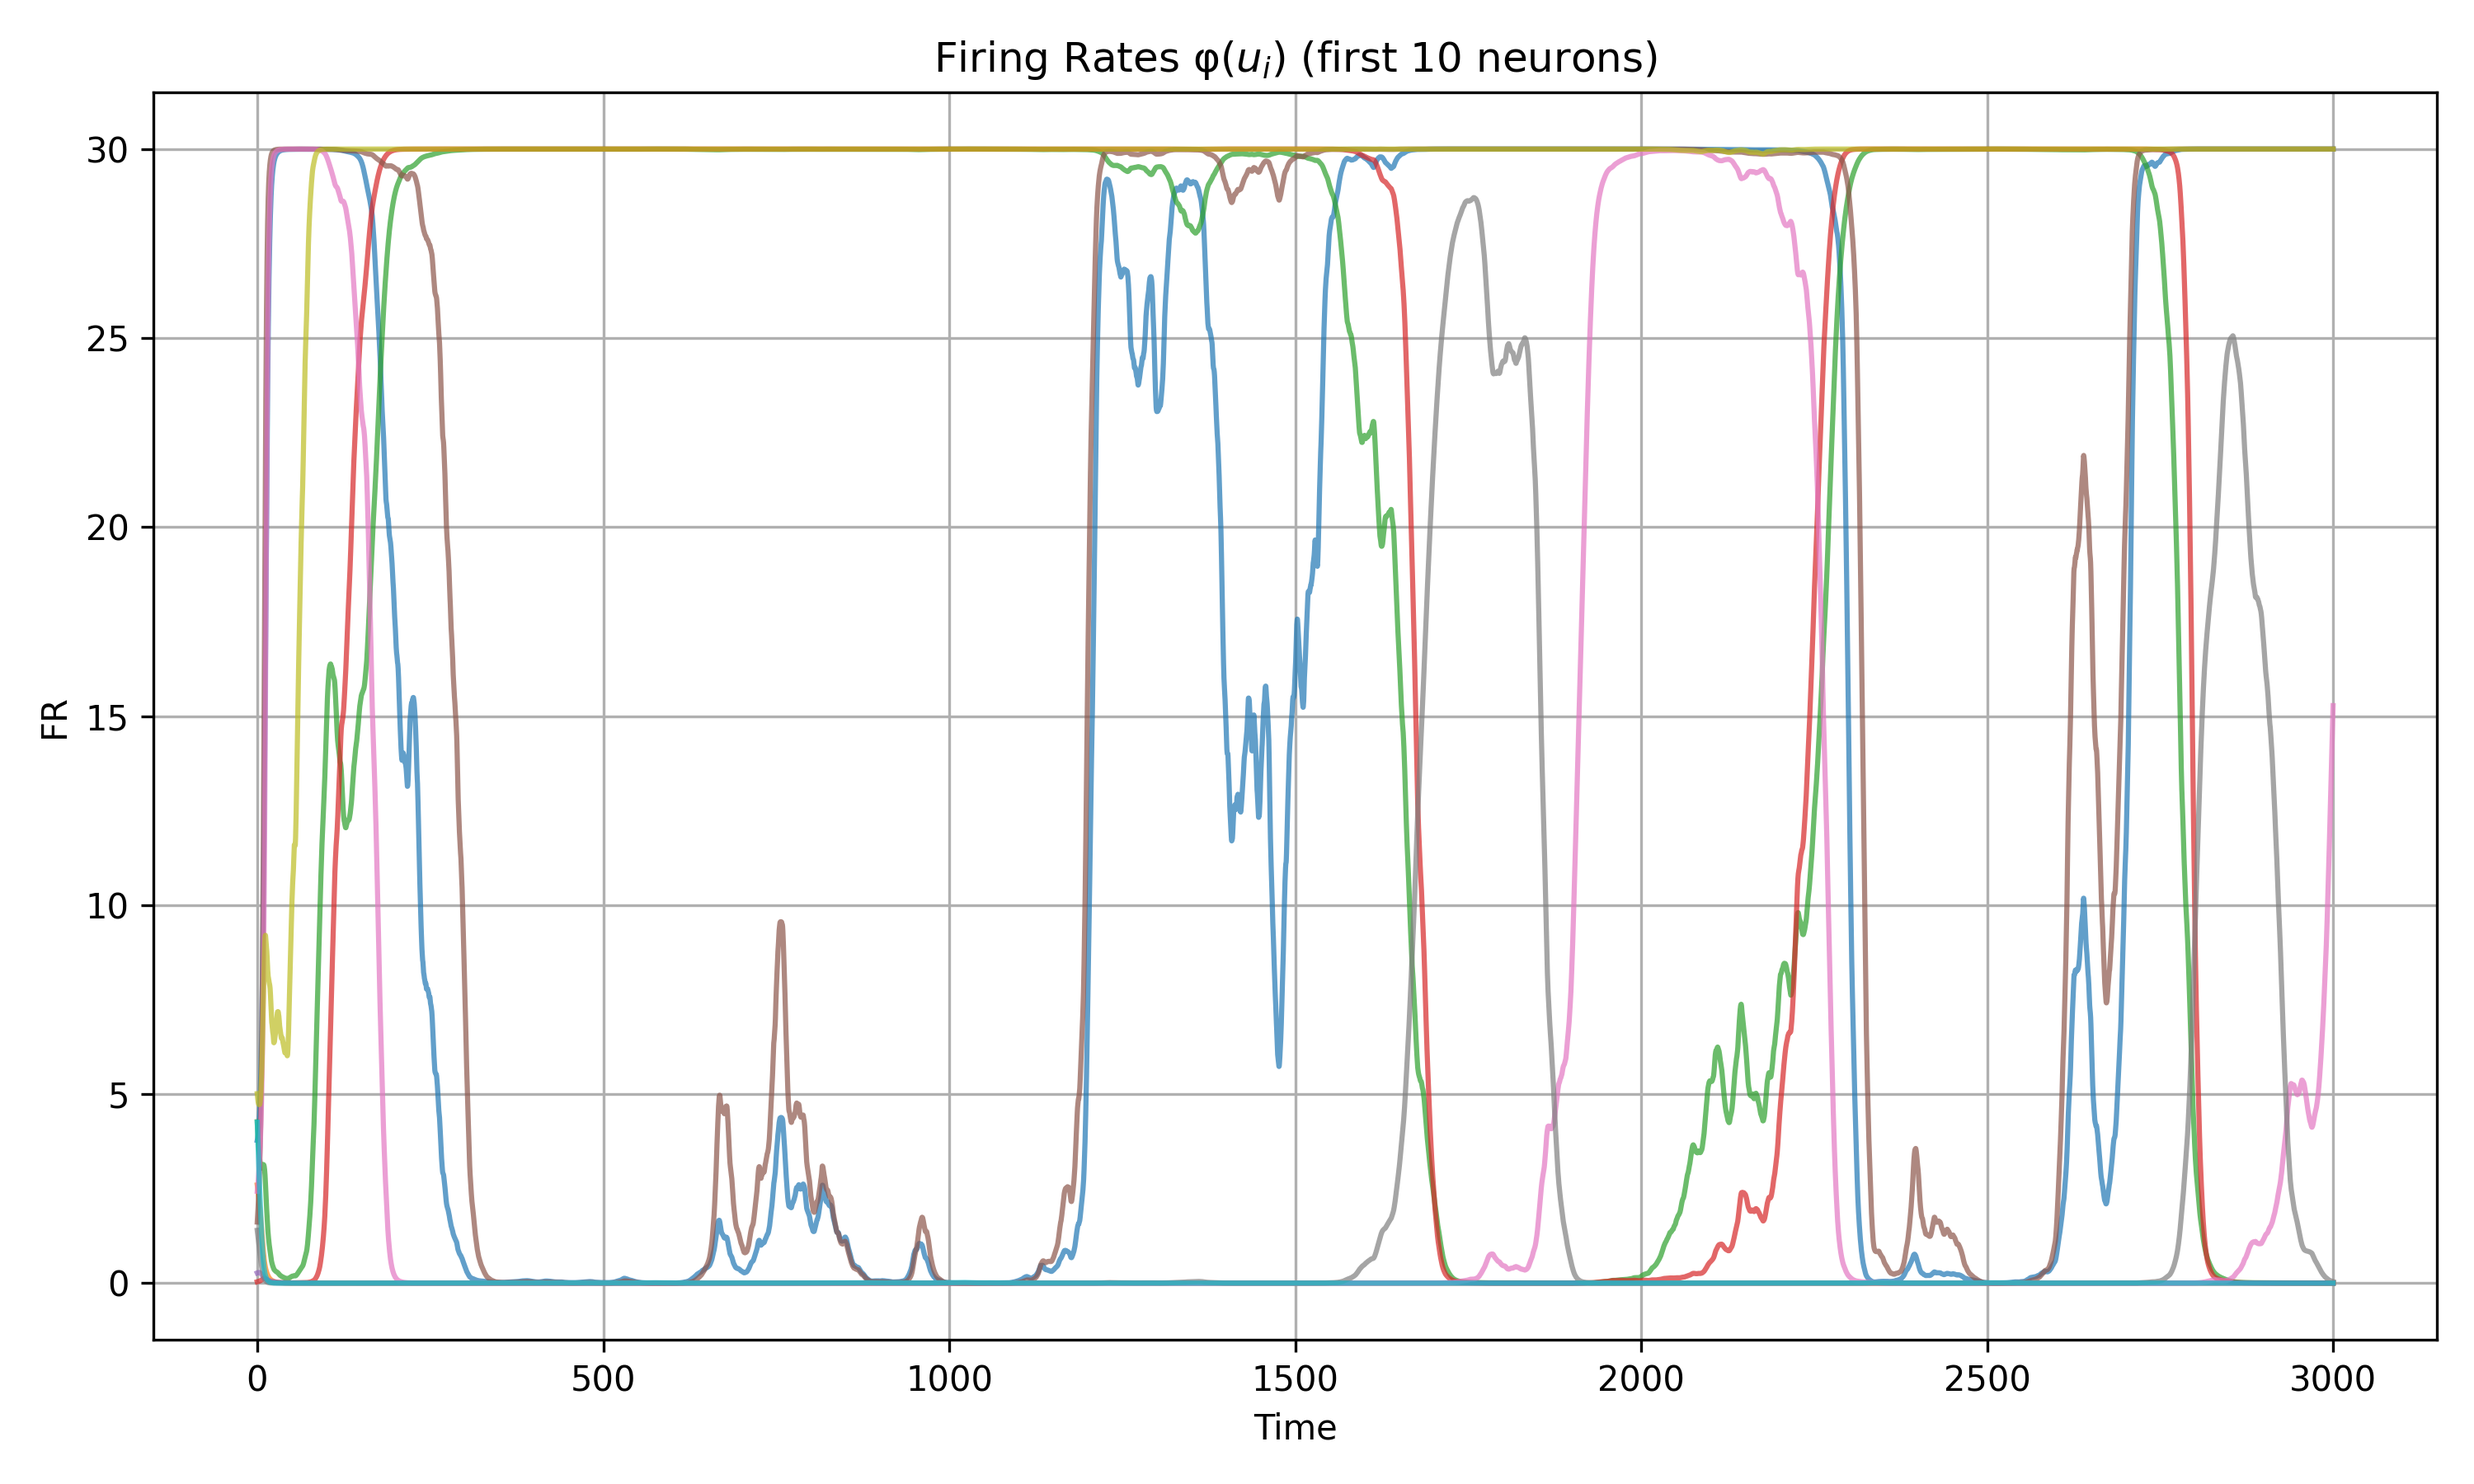
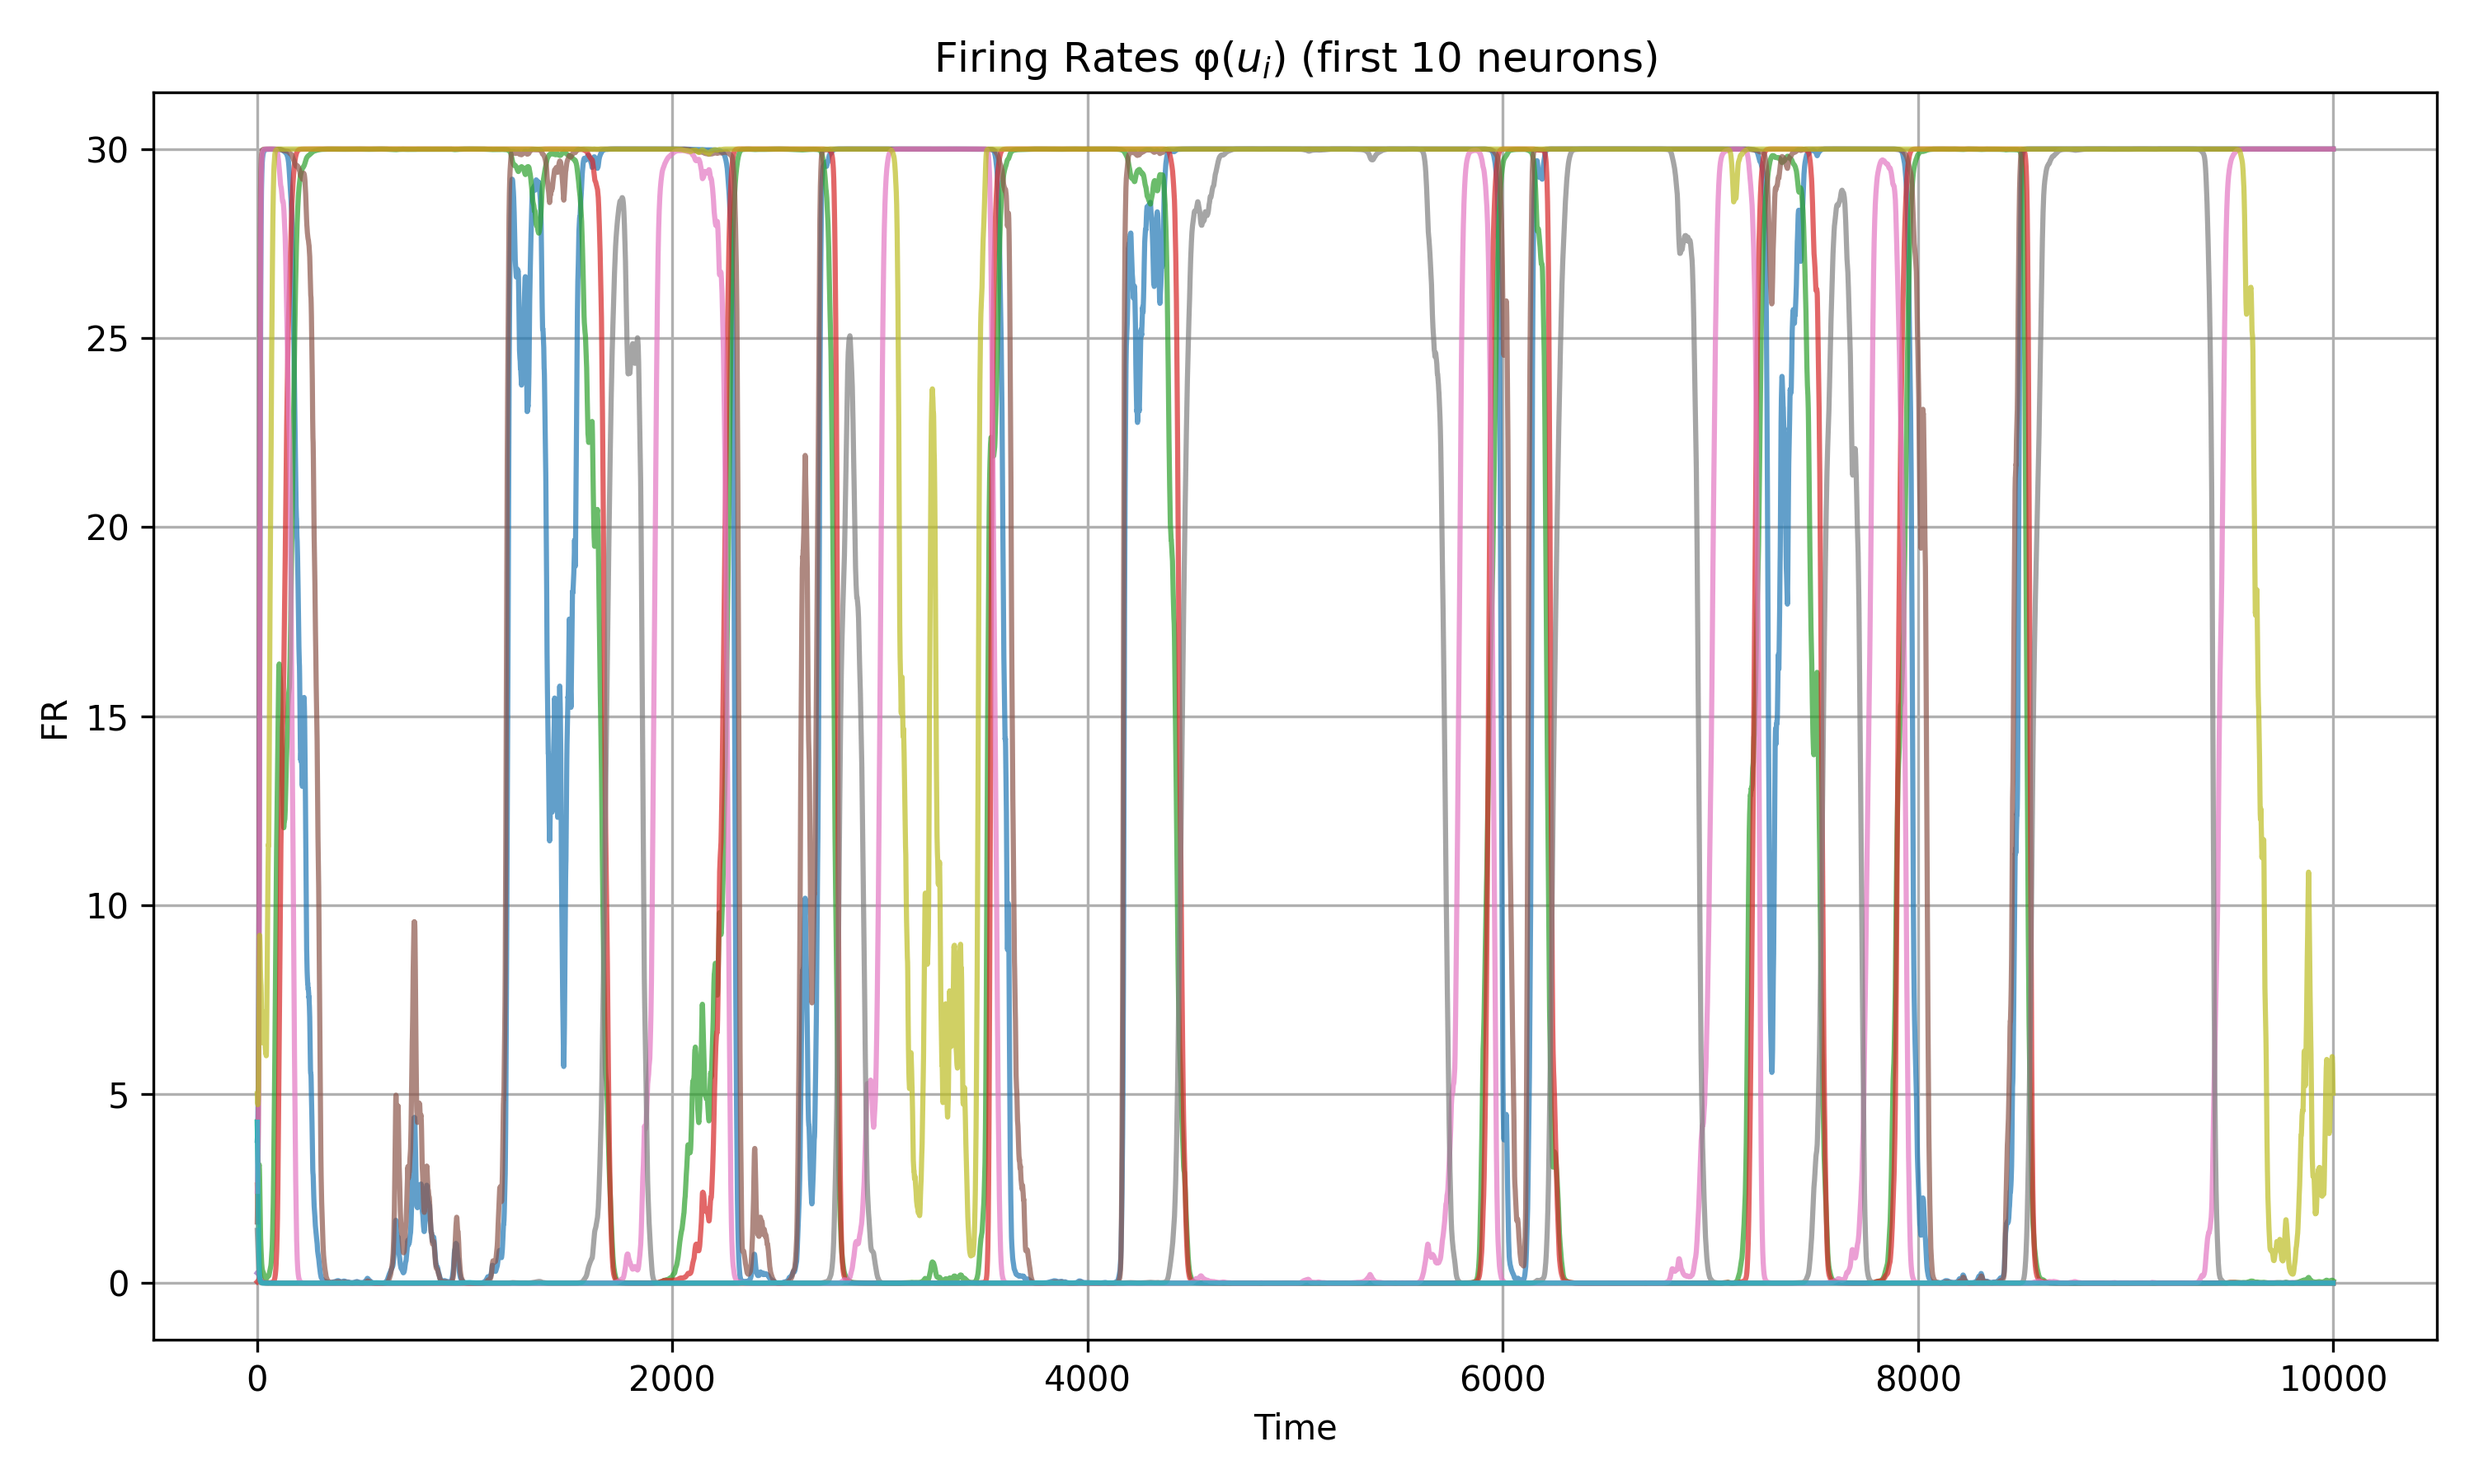
energy fixes

diff --git a/src/modules/energy.py b/src/modules/energy.py
@@ -24,30 +24,28 @@ def compute_energy(
     num_interp_points=1000
 ):
     """
-    Compute total energy E(t) = -0.5 * h_t^T W h_t + sum_i int_0^{h_i} g^{-1}(x) dx
+    Compute total energy E(h) = -0.5 * h^T W h + sum_i ∫₀^{h_i} g⁻¹(x) dx
     using lookup-table interpolation for fast integration.
-    It can handle both the single state case (h is a vector) and the multi-state case (h is a matrix).
-    
+
     Args:
         W: (N x N) connectivity matrix
-        h: (T x N) array of firing rates OR memory pattern (the single state case)
+        h: (M x N) array of firing rates (M states), or (N,) single state
         phi_function_type: "sigmoid" or "relu"
-        phi_amplitude, phi_beta, phi_r_m, phi_x_r: parameters of inverse activation
-        num_interp_points: number of points for lookup table grid
-        
+        phi_amplitude, phi_beta, phi_r_m, phi_x_r: activation inverse parameters
+        num_interp_points: resolution of lookup table
+
     Returns:
-        E: (T,) energy at each time step if h is a matrix, or a single value if h is a vector.
+        energies: (M,) energy values for each state, or scalar if h was 1D
     """
-    # Ensure h shape is (T, N)
+    # Normalize shape: (M, N)
     if h.ndim == 1:
-        h.reshape(-1, 1)  # If h is 1D, convert to 2D column vector
+        h = h.reshape(1, -1)
         single_state = True
-        T, N = 1, h.shape[0]
     else:
         single_state = False
-        T, N = h.shape
+    M, N = h.shape
 
-    # Select inverse function
+    # Select inverse function and clipping range
     if phi_function_type == "sigmoid":
         inv_func = lambda v: inverse_sigmoid_function(v, r_m=phi_r_m, beta=phi_beta, x_r=phi_x_r)
         h_clip_min = 1e-4
@@ -55,27 +53,33 @@ def compute_energy(
     elif phi_function_type == "relu":
         inv_func = lambda v: inverse_relu_function(v, amplitude=phi_amplitude)
         h_clip_min = 0.0
-        h_clip_max = phi_amplitude * 1.5  # estensione sicura
+        h_clip_max = phi_amplitude * 1.5
     else:
         raise ValueError("Unsupported phi_function_type")
 
     # Precompute lookup table
     x_vals = np.linspace(h_clip_min, h_clip_max, num_interp_points)
     integral_vals = np.array([quad(inv_func, 0, x)[0] for x in x_vals])
-    interp_integral = interp1d(x_vals, integral_vals, kind="linear", bounds_error=False, fill_value="extrapolate")
+    interp_integral = interp1d(
+        x_vals, integral_vals,
+        kind="linear",
+        bounds_error=False,
+        fill_value=(integral_vals[0], integral_vals[-1])  # Avoid extrapolation
+    )
 
-    # Compute energy
-    energies = np.zeros(T)
-    for t in range(T):
+    # Compute energy for each state
+    energies = np.zeros(M)
+    for t in range(M):
         h_t = h[t, :]
         h_t_clipped = np.clip(h_t, h_clip_min, h_clip_max)
 
-        # First term: -0.5 * h_t^T W h_t
+        # Synaptic term
         energy_syn = -0.5 * h_t @ W @ h_t
 
-        # Second term: sum_i ∫0^{h_i} g^{-1}(x) dx via interpolation
-        energy_act =  np.sum(interp_integral(h_t_clipped))
+        # Activation term via lookup-table integration
+        energy_act = np.sum(interp_integral(h_t_clipped))
+
         energies[t] = energy_syn + energy_act
 
-    return energies if not single_state else energies[0]
+    return energies[0] if single_state else energies
 

diff --git a/src/main.py b/src/main.py
@@ -647,13 +647,17 @@ def main():
     W, h = np.load(connectivity_path), np.load(history_path)
     W_symm = np.load(original_symm_path)
     W_asymm = np.load(original_asymm_path)
-
+    phi_memory_patterns = np.load(phi_memory_patterns_path)
+    patterns = phi_memory_patterns.shape[0] if phi_memory_patterns.ndim > 1 else 1
+    for i in range(patterns):
+        print(f"Energy for pattern {i+1}: {compute_energy(W_symm, phi_memory_patterns[i])}")
     # plot energy trajectories both original and divided with symmetric and antisymmetric components
     E_total_traj = compute_energy(W, h)
     E_symm_traj = compute_energy(W_symm, h)
     E_asymm_traj = compute_energy(W_asymm, h)
     t = np.arange(E_total_traj.shape[0])  # but time steps are dt seconds apart so multiply by dt
     t = t * dt
+    print(E_symm_traj[4300] - E_symm_traj[300])
     plt.figure(figsize=(12, 6))
     plt.plot(t, E_total_traj, label='Total Energy', color='blue')
     plt.plot(t, E_symm_traj, label='Symmetric Energy', color='green')

diff --git a/src/parameters.py b/src/parameters.py
@@ -58,7 +58,7 @@ apply_er_to_asymmetric = False  # Apply Erdős-Rényi to asymmetric component
 # Time and integration parameters
 tau = 20.0              # Time constant for neural dynamics
 t_start = 0.0           # Simulation start time
-t_end = 3000.0           # Simulation end time
+t_end = 10000.0           # Simulation end time
 dt = 0.2                # Time step for simulation output (increased for efficiency)
 
 # Performance optimization
